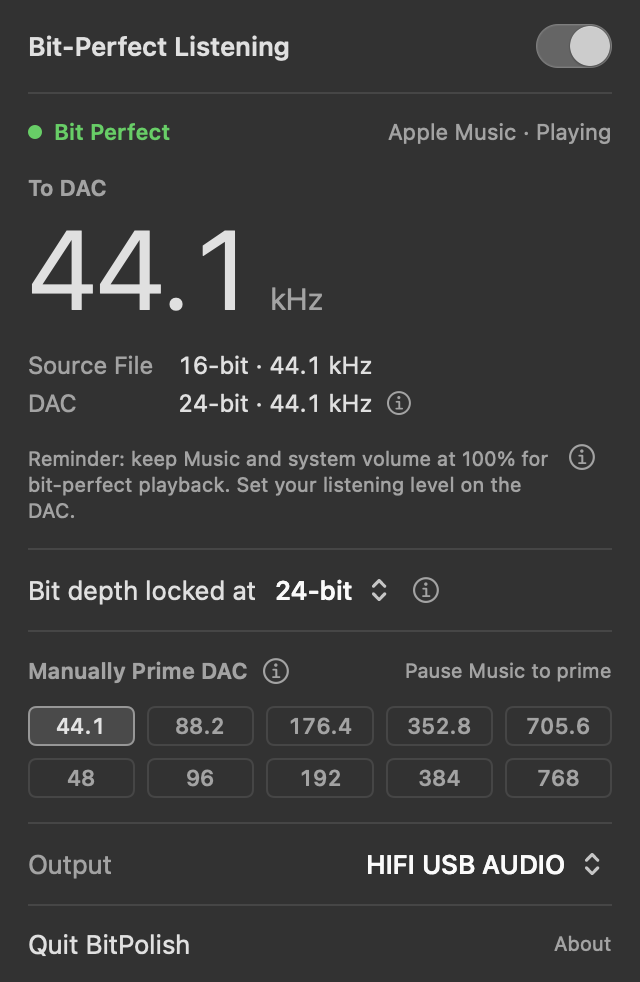
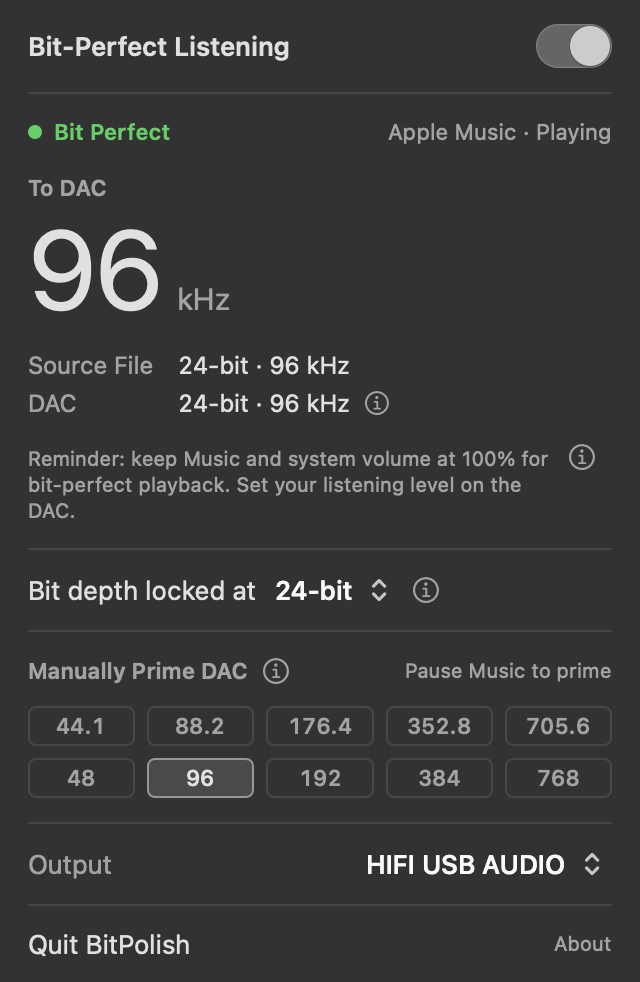
BitPolish: hero panel shows a 24-bit 96 kHz track, Bit Perfect

diff --git a/projects/bitpolish/index.html b/projects/bitpolish/index.html
@@ -63,9 +63,9 @@
       <figure class="bp-shot">
         <picture>
           <source srcset="../../assets/bitpolish/panel-dark.png" media="(prefers-color-scheme: dark)">
-          <img src="../../assets/bitpolish/panel-light.png" alt="The BitPolish panel with Bit-Perfect Listening on: a green Bit Perfect status, 44.1 kHz going to the DAC, the source file and DAC format, the locked 24-bit depth, the Manually Prime DAC buttons and the output" width="320" height="491">
+          <img src="../../assets/bitpolish/panel-light.png" alt="The BitPolish panel with Bit-Perfect Listening on: a green Bit Perfect status, 96 kHz going to the DAC, a 24-bit 96 kHz source file and DAC format, the locked 24-bit depth, the Manually Prime DAC buttons and the output" width="320" height="491">
         </picture>
-        <figcaption>The panel while a 44.1 kHz file plays: green Bit Perfect, 44.1 kHz to the DAC at 24-bit. When something in the chain cannot carry a track as it is, the status turns orange and says Resampled.</figcaption>
+        <figcaption>The panel while a 24-bit, 96 kHz file plays: green Bit Perfect, 96 kHz to the DAC at 24-bit. When something in the chain cannot carry a track as it is, the status turns orange and says Resampled.</figcaption>
       </figure>
     </section>
 
